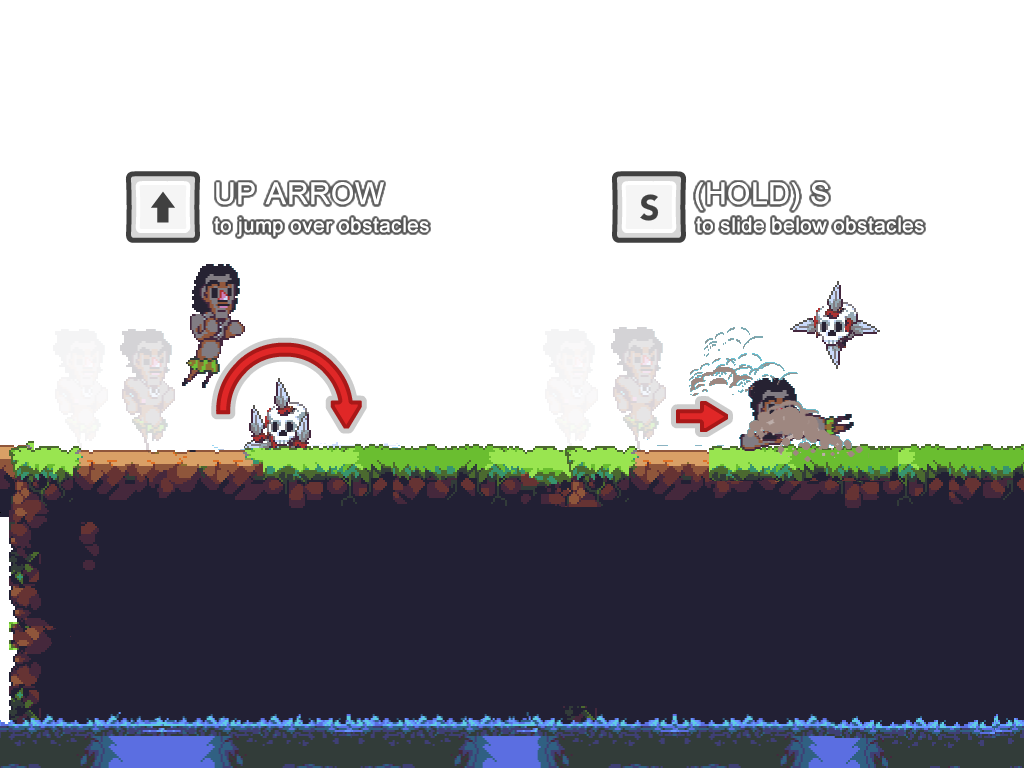
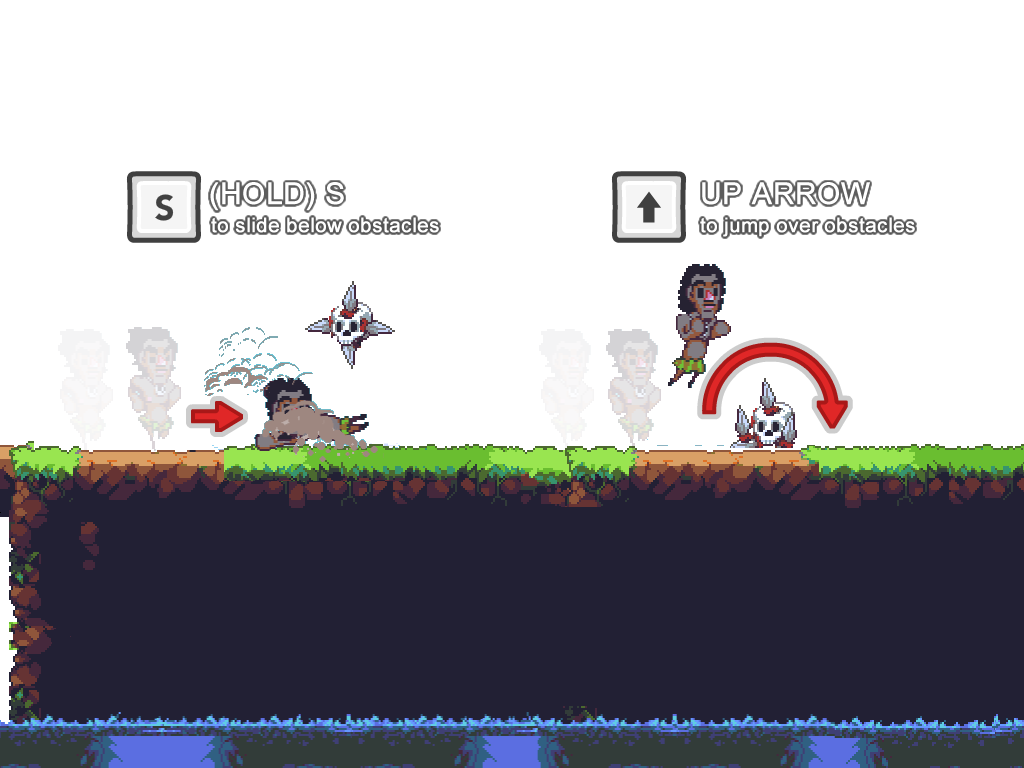
Improve tutorial (position things according to keyboard layout)

diff --git a/platformer/LoadState.js b/platformer/LoadState.js
@@ -29,7 +29,7 @@ var LoadState = function() {
 		this.game.load.spritesheet('dust', 'assets/dust.png', 64, 40); // ansimuz, Public domain, http://opengameart.org/content/animated-explosions
 		this.game.load.image('water', 'assets/water.png');  // Contributors, CC-BY 3.0, http://opengameart.org/content/open-pixel-platformer-tiles-sprites
 		this.game.load.spritesheet('clouds', 'assets/clouds.png', 192, 60);  // Contributors, CC-BY 3.0, http://opengameart.org/content/open-pixel-platformer-tiles-sprites
-		this.game.load.image('tutorial', 'assets/tutorial.png'); // xelu, Public Domain, http://opengameart.org/content/free-keyboard-and-controllers-prompts-pack
+		this.game.load.image('tutorial', 'assets/tutorial.png?1'); // xelu, Public Domain, http://opengameart.org/content/free-keyboard-and-controllers-prompts-pack
 		this.game.load.image('key-up', 'assets/key-up.png'); // xelu, Public Domain, http://opengameart.org/content/free-keyboard-and-controllers-prompts-pack
 		this.game.load.image('key-s', 'assets/key-s.png'); // xelu, Public Domain, http://opengameart.org/content/free-keyboard-and-controllers-prompts-pack
 		this.game.load.image('heart', 'assets/heart.png'); // UI pack, by Kenney Vleugels (www.kenney.nl), CC0, http://www.kenney.nl
